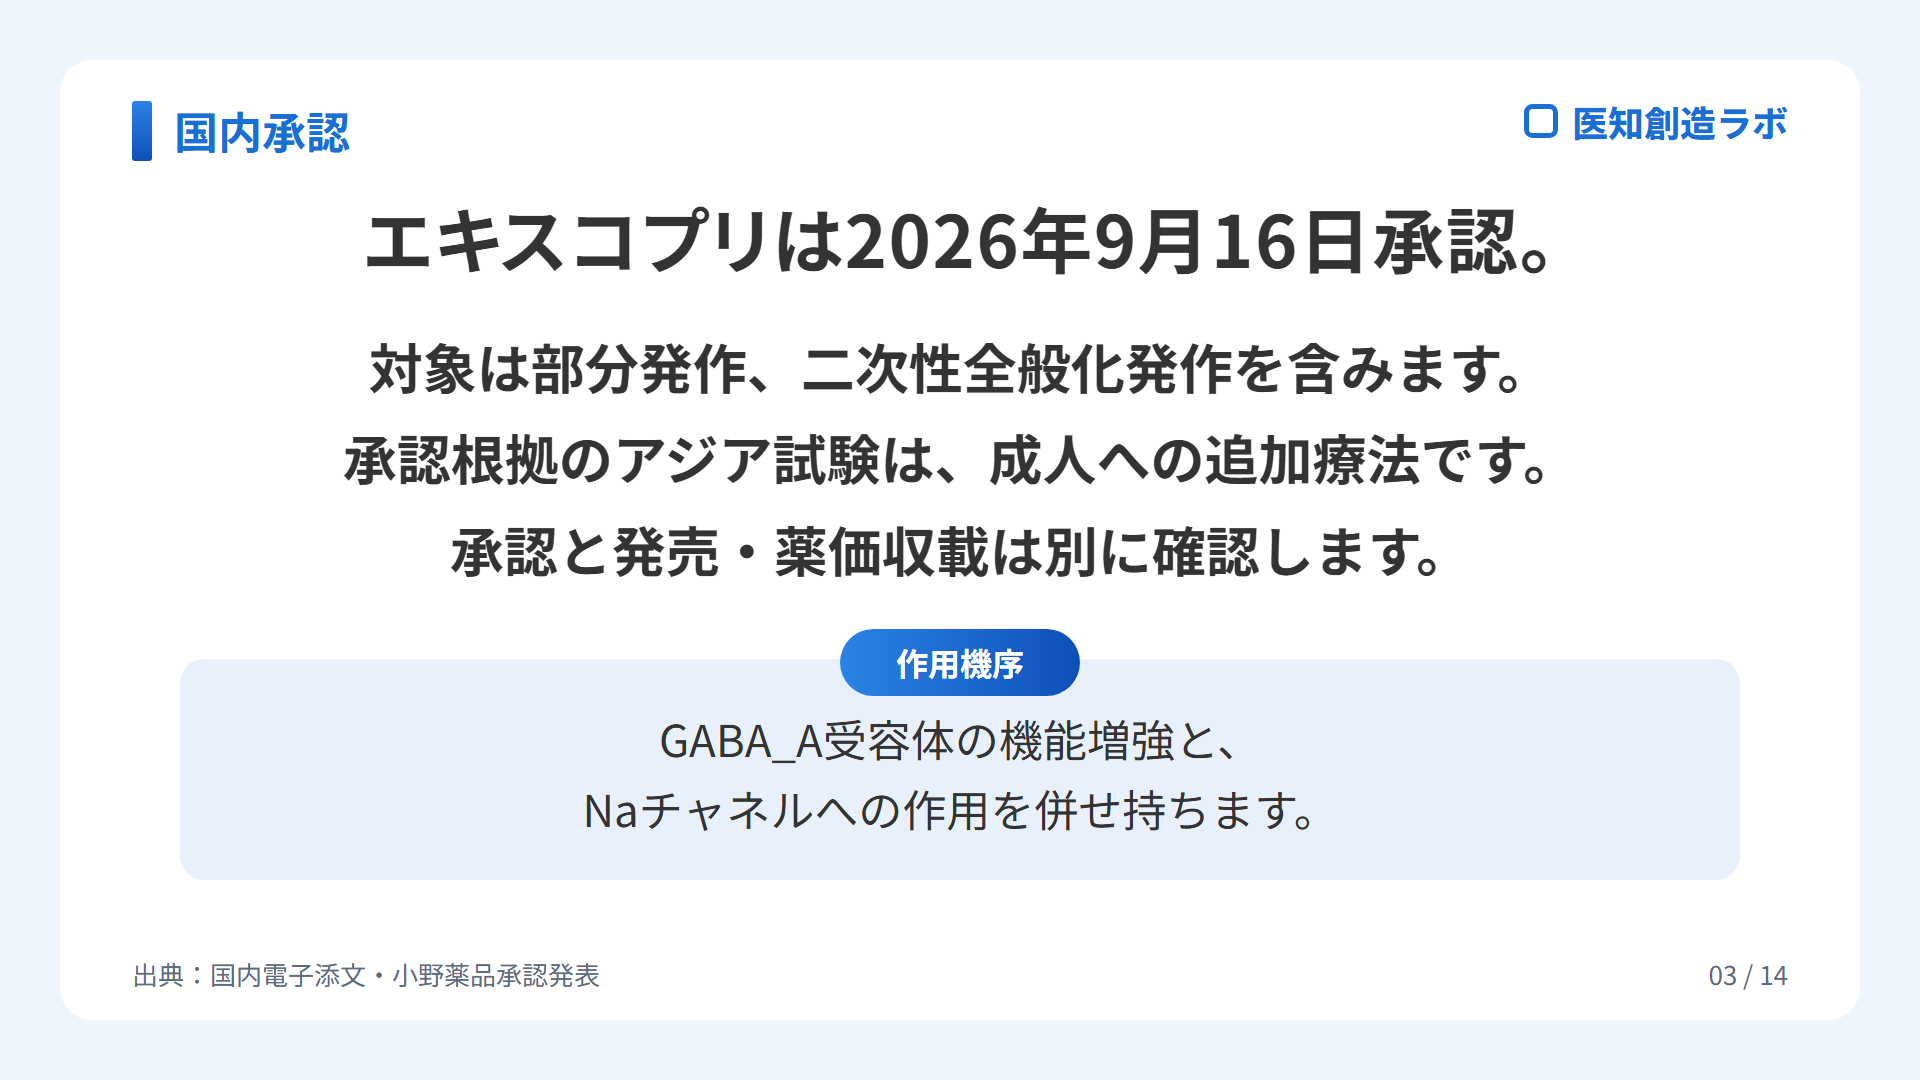
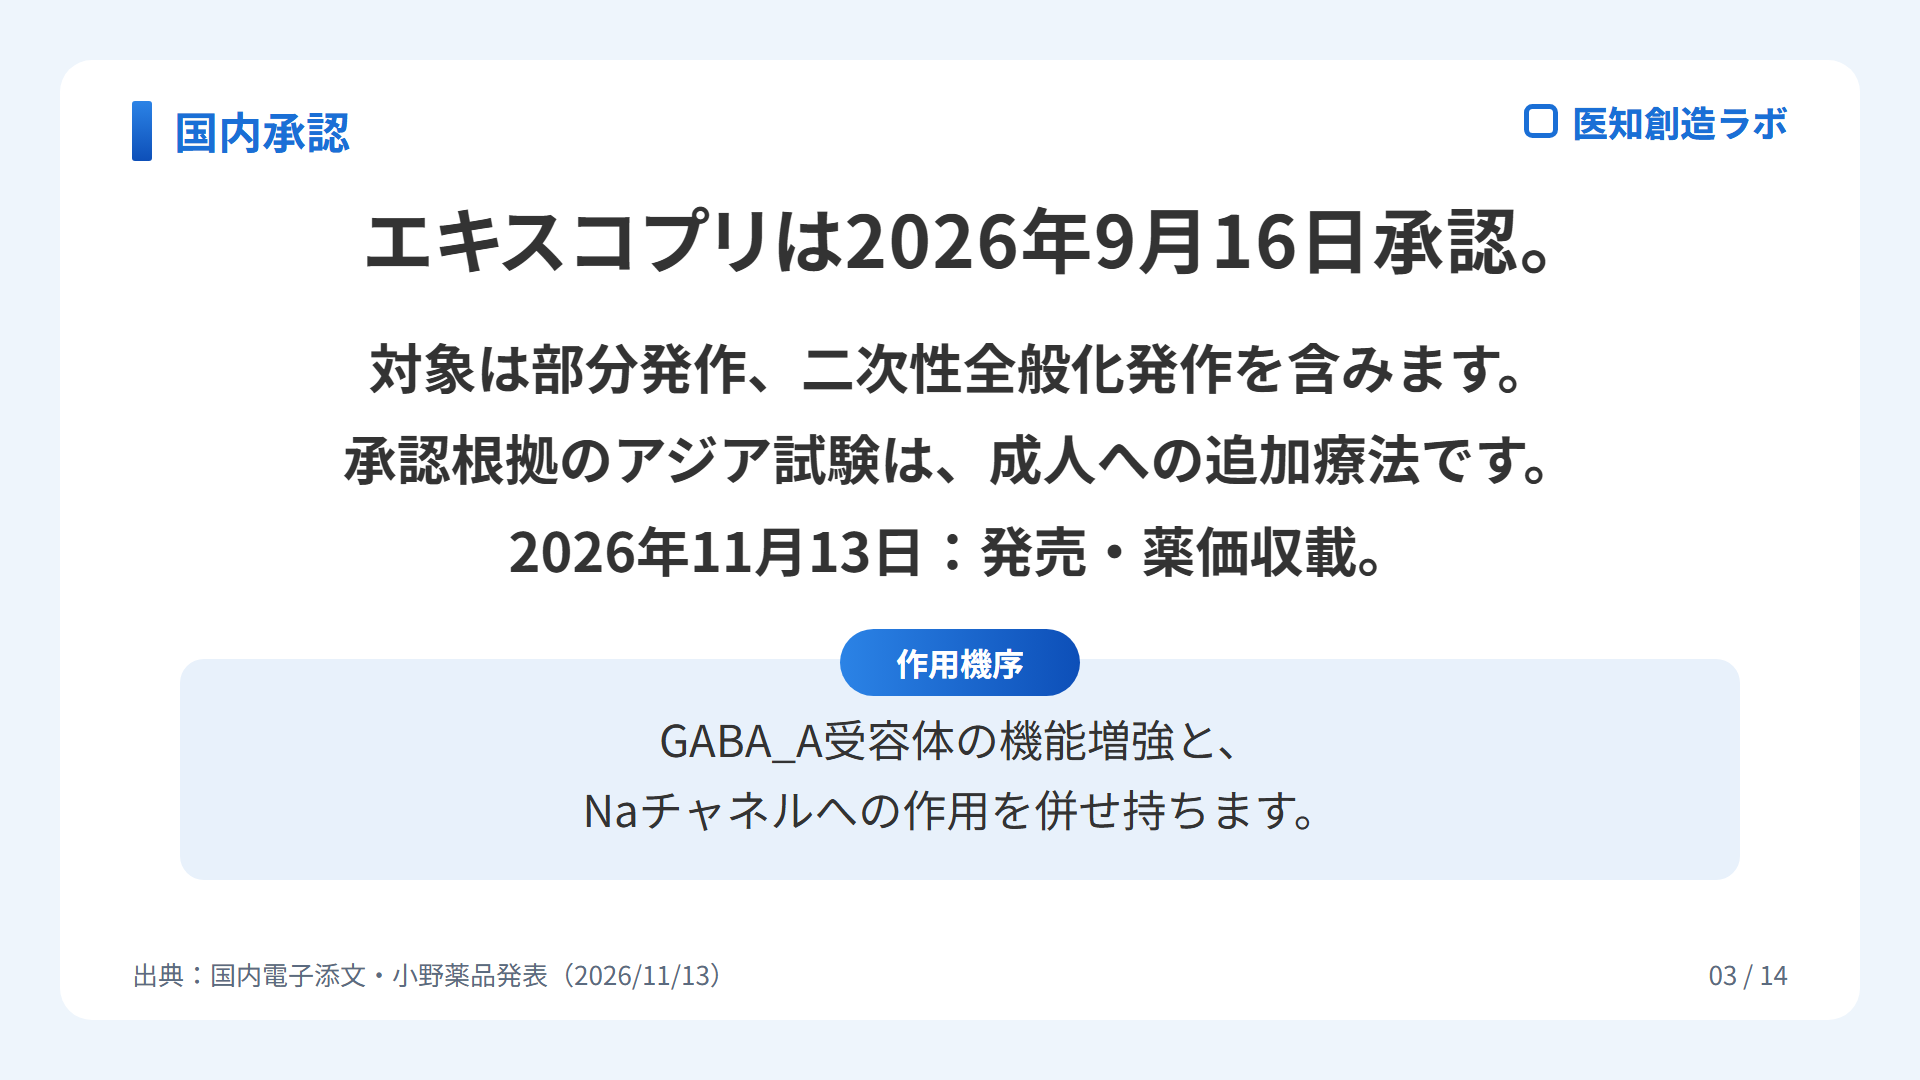
Update cenobamate launch and reimbursement information

Changed region(s): [[0.2188, 0.4889, 0.75, 0.55], [0.25, 0.8861, 0.375, 0.9167]]

diff --git a/slides/cenobamate-japan-2026/index.html b/slides/cenobamate-japan-2026/index.html
@@ -260,8 +260,9 @@ button.slide-card{font:inherit;text-align:left;width:100%;color:inherit;padding:
     <a href="../">スライド一覧</a> / <a href="https://tools.ichisouzo-lab.com/">DDxツール</a>
   </div>
   <h1>セノバメート（エキスコプリ）日本承認：効果の読み方と安全な導入</h1>
-  <p class="subtitle">医療従事者向け · 2026年9月21日確認</p>
+  <p class="subtitle">医療従事者向け · 臨床内容：2026年9月21日／発売情報：2026年11月13日</p>
 </header>
+<section aria-label="発売情報の更新" style="max-width:1100px;margin:20px auto;padding:18px;border:1px solid #cbd8e8;border-radius:12px;background:#f2f7fc;line-height:1.8"><strong>2026年11月14日追記：エキスコプリが発売・薬価収載されました。</strong><p>薬価（1錠）：12.5 mg 129.60円／50 mg 345.20円／100 mg 563.50円／200 mg 919.80円。</p><p>新医薬品の投薬期間制限により、2027年11月末日までは1回14日分が限度です（<a href="https://www.ononavi1717.jp/system/files/2026-11/XCP_PI.pdf">電子添文 第25項</a>）。</p><p>今回の更新は発売・薬価情報とスライド3です。治療・安全性の説明は2026年9月21日の確認内容を保持しています。動画本編は制作時の内容です。処方時は最新の国内電子添文をご確認ください。</p><p><a href="https://www.ono-pharma.com/ja/news/20261113.html" target="_blank" rel="noopener">小野薬品の発売発表</a> ／ <a href="https://blog.ichisouzo-lab.com/entry/2026/09/21/052814">解説記事</a></p></section>
 
 <div class="container">
   <div class="action-bar">
@@ -286,7 +287,7 @@ button.slide-card{font:inherit;text-align:left;width:100%;color:inherit;padding:
   <div class="slide-grid" id="slideGrid">
     <button type="button" class="slide-card" aria-label="スライド1を拡大"><img src="slide-01.png" loading="lazy" alt="セノバメート 効果と安全な導入"><div class="slide-label">01 / 14 · セノバメート 効果と安全な導入</div></button>
 <button type="button" class="slide-card" aria-label="スライド2を拡大"><img src="slide-02.png" loading="lazy" alt="効果への期待と、安全管理を一組に。"><div class="slide-label">02 / 14 · 効果への期待と、安全管理を一組に。</div></button>
-<button type="button" class="slide-card" aria-label="スライド3を拡大"><img src="slide-03.png" loading="lazy" alt="エキスコプリは2026年9月16日承認。"><div class="slide-label">03 / 14 · エキスコプリは2026年9月16日承認。</div></button>
+<button type="button" class="slide-card" aria-label="スライド3を拡大"><img src="slide-03.png?v=20261113" loading="lazy" alt="エキスコプリは2026年9月16日承認。"><div class="slide-label">03 / 14 · 国内承認と2026年11月13日の発売・薬価収載</div></button>
 <button type="button" class="slide-card" aria-label="スライド4を拡大"><img src="slide-04.png" loading="lazy" alt="維持期6週間の発作消失率"><div class="slide-label">04 / 14 · 維持期6週間の発作消失率</div></button>
 <button type="button" class="slide-card" aria-label="スライド5を拡大"><img src="slide-05.png" loading="lazy" alt="52.4％は、長期寛解率ではありません。"><div class="slide-label">05 / 14 · 52.4％は、長期寛解率ではありません。</div></button>
 <button type="button" class="slide-card" aria-label="スライド6を拡大"><img src="slide-06.png" loading="lazy" alt="12.5 mgから、2週間以上ずつ。"><div class="slide-label">06 / 14 · 12.5 mgから、2週間以上ずつ。</div></button>
@@ -337,7 +338,7 @@ button.slide-card{font:inherit;text-align:left;width:100%;color:inherit;padding:
   var cards = document.querySelectorAll('.slide-card');
 
   function pad(n) { return n < 10 ? '0' + n : '' + n; }
-  function srcOf(i) { return 'slide-' + pad(i + 1) + '.png'; }
+  function srcOf(i) { return 'slide-' + pad(i + 1) + '.png' + (i === 2 ? '?v=20261113' : ''); }
 
   function show(i) {
     if (i < 0) i = 0;
